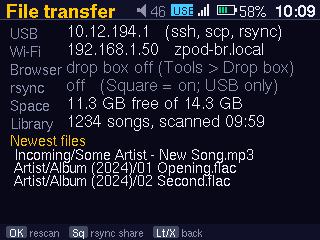
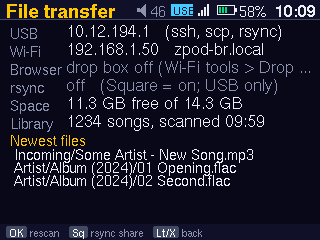
Drop box / Book catalog moved under Wi-Fi tools: fix the menu paths (File transfer page, FILE-TRANSFER.md, comments)

Changed region(s): [[0.5, 0.2333, 0.9375, 0.3208]]

diff --git a/apps/crates/drop/src/main.rs b/apps/crates/drop/src/main.rs
@@ -1,12 +1,12 @@
 //! zpod-drop: the ZPOD's tiny web server (M6: offline drop box + OPDS).
 //!
-//! Drop box (`dropbox = on` in /etc/zpod/drop.conf; Tools > Drop box):
+//! Drop box (`dropbox = on` in /etc/zpod/drop.conf; Wi-Fi tools > Drop box):
 //!   GET  /                 home page: browse, upload, OPDS address
 //!   GET  /files/<area>/... browse/download music, books or the inbox
 //!   PUT  /inbox/<name>     upload any file into /data/inbox (size-capped)
 //!   PUT  /music/<path>     store one music file (atomic: .part + rename)
 //!   POST /update           ask MPD to rescan (also done automatically after uploads)
-//! Book catalog (`opds = on`; Tools > Book catalog), see [`opds`]:
+//! Book catalog (`opds = on`; Wi-Fi tools > Book catalog), see [`opds`]:
 //!   GET  /opds...          OPDS 1.2 feeds of /data/books
 //!   GET  /books/<path>, /cover/<path>
 //! Always: GET /status (JSON).

diff --git a/apps/crates/launcher/src/main.rs b/apps/crates/launcher/src/main.rs
@@ -1352,7 +1352,7 @@ fn draw_transfer(fb: &mut zpod_ui::Framebuffer, x: &transfer::Info) {
     let web = if x.drop_on {
         format!("http://{}:{DROP_PORT}/  (drop box)", x.usb.clone().or(x.wlan.clone()).unwrap_or_else(|| "<ip>".into()))
     } else {
-        "drop box off (Tools > Drop box)".into()
+        "drop box off (Wi-Fi tools > Drop box)".into()
     };
     kv(fb, &mut y, "Browser", &web, if x.drop_on { FG } else { DIM });
     let rs = match x.rsync {

diff --git a/apps/crates/launcher/src/server.rs b/apps/crates/launcher/src/server.rs
@@ -1,4 +1,4 @@
-//! Tools > Drop box / Book catalog (M6): one switch each for the two halves
+//! Wi-Fi tools > Drop box / Book catalog (M6): one switch each for the two halves
 //! of zpod-drop. Both OFF by default. The socket (port 8080) is enabled
 //! when either is on and disabled when both are off; zpod-drop reads
 //! `dropbox =` / `opds =` from /etc/zpod/drop.conf at start, so a change

diff --git a/docs/FILE-TRANSFER.md b/docs/FILE-TRANSFER.md
@@ -75,7 +75,7 @@ script warns; `--http` mode converts names with `iconv` before uploading.
 ## 2. Drop server (light, no SSH): `zpod-drop`
 
 A ~600 kB static Rust HTTP server, socket-activated by systemd on port 8080.
-**M6: off by default**, switched on from Tools > Drop box / Book catalog (section 2a).
+**M6: off by default**, switched on from Tools > Wi-Fi > Wi-Fi tools > Drop box / Book catalog (section 2a).
 It starts on the first connection and exits after 10 idle minutes, so it costs
 nothing while unused.
 
@@ -115,11 +115,11 @@ one is on; M5's always-on music upload is now part of the drop box.
 
 | Part | Switch | URL | What |
 |---|---|---|---|
-| Drop box | Tools > Drop box | `http://<ZPOD>:8080/` | web page: browse and download `music`, `books` and `inbox`; upload any file into **`/data/inbox`** (max `max_upload_mb`, default 1024 MiB per file, and never closer than 64 MiB to a full `/data`); M5 music upload (`PUT /music/…`, `zpod-push-music.sh --http`) |
-| Book catalog | Tools > Book catalog | `http://<ZPOD>:8080/opds` | **OPDS 1.2** catalog of **`/data/books`** (EPUB, PDF, MOBI/AZW3, CBZ/CBR, FB2, DjVu, TXT): All books, Newest, By author. EPUB title/author/language/cover come from the book's OPF; other files use `Author - Title.ext` names |
+| Drop box | Tools > Wi-Fi > Wi-Fi tools > Drop box | `http://<ZPOD>:8080/` | web page: browse and download `music`, `books` and `inbox`; upload any file into **`/data/inbox`** (max `max_upload_mb`, default 1024 MiB per file, and never closer than 64 MiB to a full `/data`); M5 music upload (`PUT /music/…`, `zpod-push-music.sh --http`) |
+| Book catalog | Tools > Wi-Fi > Wi-Fi tools > Book catalog | `http://<ZPOD>:8080/opds` | **OPDS 1.2** catalog of **`/data/books`** (EPUB, PDF, MOBI/AZW3, CBZ/CBR, FB2, DjVu, TXT): All books, Newest, By author. EPUB title/author/language/cover come from the book's OPF; other files use `Author - Title.ext` names |
 
 `<ZPOD>` is `10.12.194.1` over USB, `10.42.0.1` on the ZPOD's own hotspot
-(Tools > Hotspot), or `zpod.local` on your home Wi-Fi.
+(Tools > Wi-Fi > Mode > Hotspot), or `zpod.local` on your home Wi-Fi.
 
 Who may connect:
 
